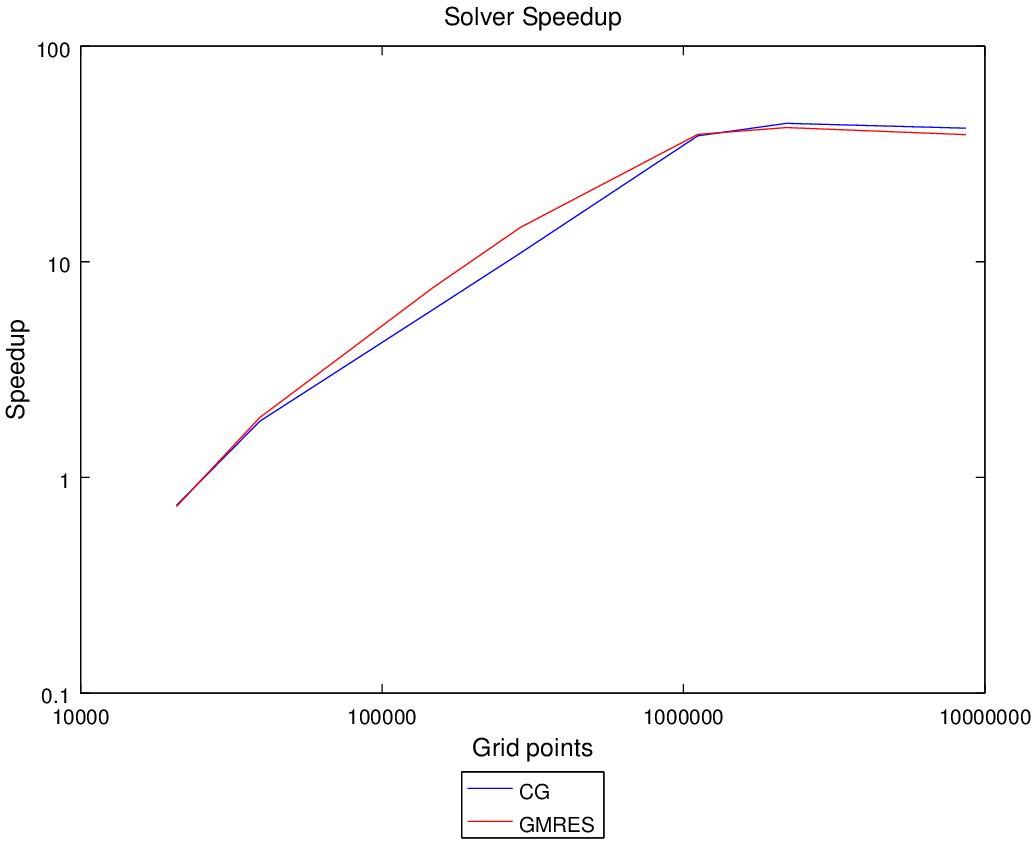
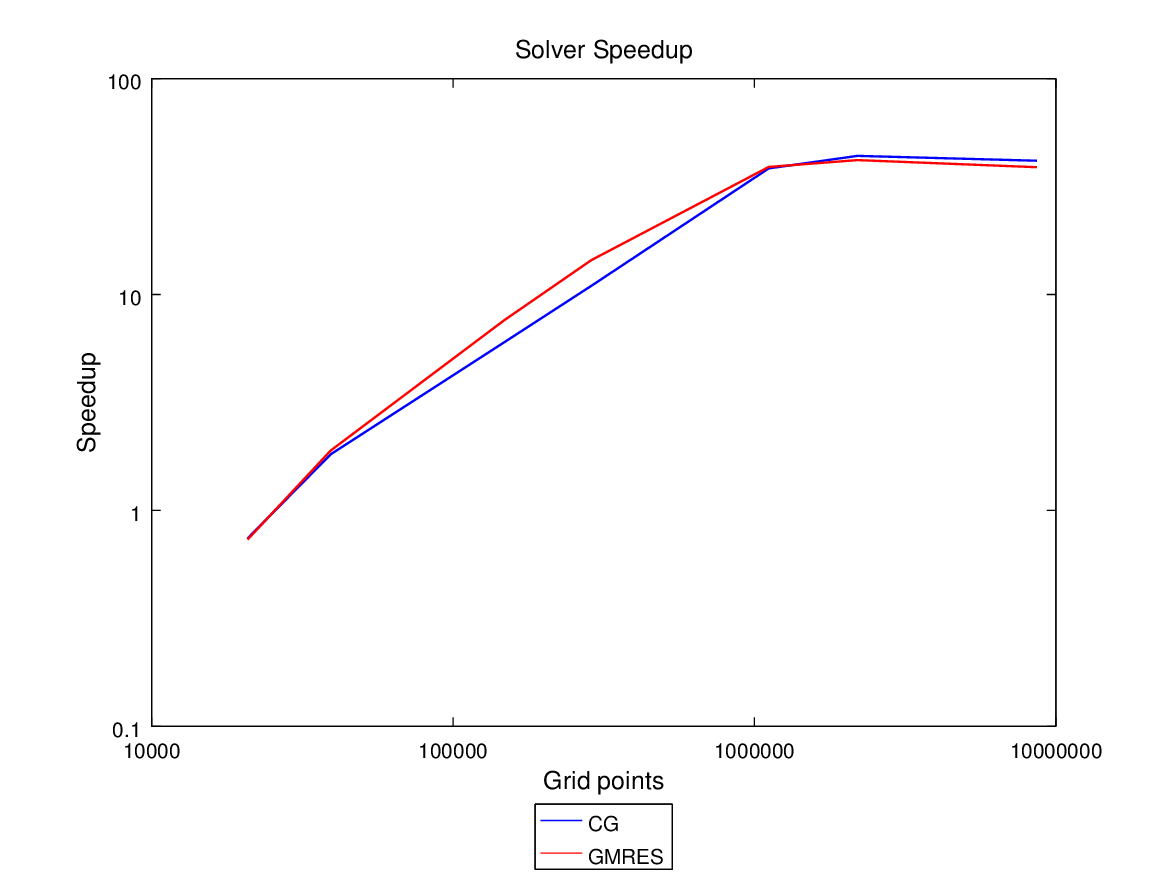
...

diff --git a/results/tests.tex b/results/tests.tex
@@ -9,17 +9,17 @@ on the GPU these command line arguments are given: "\emph{-vec\_type viennacl
 
 The configuration options for the wind simulator allows for variation in the
 external wind direction, speed and the resolution of the three dimensional wind
-velocity field. For the scope of these tests only the resolution of the wind
+velocity field. For the scope of these benchmarks only the resolution of the wind
 velocity field is changed, while the external wind's speed and direction remains
-unchanged for all tests. The resolution of the wind velocity field is denoted
-as \{x, y, z\}. The terrain used for the simulation tests is the height map of
+unchanged for all benchmarks. The resolution of the wind velocity field is denoted
+as \{x, y, z\}. The terrain used for the simulation benchmarks is the height map of
 Mount St. Helens with a size of 768x768 that has been added by previous students
 working on the snow simulator. The external wind's speed is set to 1 and the
 direction is given by the unit vector \{1, 0, 0\}.
 
 \subsection{Compute Time Benchmark}
 
-This test measures how the execution time of the wind simulation is distributed
+This benchmark measures how the execution time of the wind simulation is distributed
 between these key functions in the implementation:
 \begin{description}
 	\item[advect:] Performs the advection step of the wind simulation.
@@ -31,10 +31,10 @@ between these key functions in the implementation:
 	snow particle simulation.
 \end{description}
 
-The solver chosen for this test is GMRES, this was specified with the command
+The solver chosen for this benchmark is GMRES, this was specified with the command
 line argument "\emph{-ksp\_type gmres}".
 
-This test is performed for four different configurations for the resolution of
+This benchmark is performed for four different configurations for the resolution of
 the wind velocity field:
 \begin{description}
 	\item[Configuration 1] $ \{ 32, 16, 32 \} $, results are shown in figure

diff --git a/results/data/sb/plot_data.m b/results/data/sb/plot_data.m
@@ -35,11 +35,11 @@ end
 
 hold on;
 title("Solver Execution Time", "FontSize", 12, "FontName", "Arial");
-loglog(cuda(1, :), cuda(2, :), "Color", "black", "LineWidth", 1);
-loglog(petsc_cpu_cg(1, :), petsc_cpu_cg(2, :), "Color", "green", "LineWidth", 1);
-loglog(petsc_cpu_gmres(1, :), petsc_cpu_gmres(2, :), "Color", "magenta", "LineWidth", 1);
-loglog(petsc_gpu_cg(1, :), petsc_gpu_cg(2, :), "Color", "red", "LineWidth", 1);
-loglog(petsc_gpu_gmres(1, :), petsc_gpu_gmres(2, :), "Color", "blue", "LineWidth", 1);
+loglog(cuda(1, :), cuda(2, :), "Color", "black", "LineWidth", 1, "-.");
+loglog(petsc_cpu_cg(1, :), petsc_cpu_cg(2, :), "Color", "green", "LineWidth", 1, "-+");
+loglog(petsc_cpu_gmres(1, :), petsc_cpu_gmres(2, :), "Color", "magenta", "LineWidth", 1, "-*");
+loglog(petsc_gpu_cg(1, :), petsc_gpu_cg(2, :), "Color", "red", "LineWidth", 1, "-o");
+loglog(petsc_gpu_gmres(1, :), petsc_gpu_gmres(2, :), "Color", "blue", "LineWidth", 1, "-x");
 xlabel("Grid points", "FontSize", 12, "FontName", "Arial");
 set(gca,'XTickLabel',num2str(get(gca,'XTick').'));
 ylabel("Execution time (seconds)", "FontSize", 12, "FontName", "Arial");
@@ -63,8 +63,8 @@ end
 
 hold on;
 title("Solver Speedup", "FontSize", 12, "FontName", "Arial");
-loglog(speedup_cg(1, :), speedup_cg(2, :), "Color", "blue");
-loglog(speedup_gmres(1, :), speedup_gmres(2, :), "Color", "red");
+loglog(speedup_cg(1, :), speedup_cg(2, :), "Color", "blue", "LineWidth", 1);
+loglog(speedup_gmres(1, :), speedup_gmres(2, :), "Color", "red", "LineWidth", 1);
 xlabel("Grid points", "FontSize", 12, "FontName", "Arial");
 set(gca,'XTickLabel',num2str(get(gca,'XTick').'));
 ylabel("Speedup", "FontSize", 12, "FontName", "Arial");
